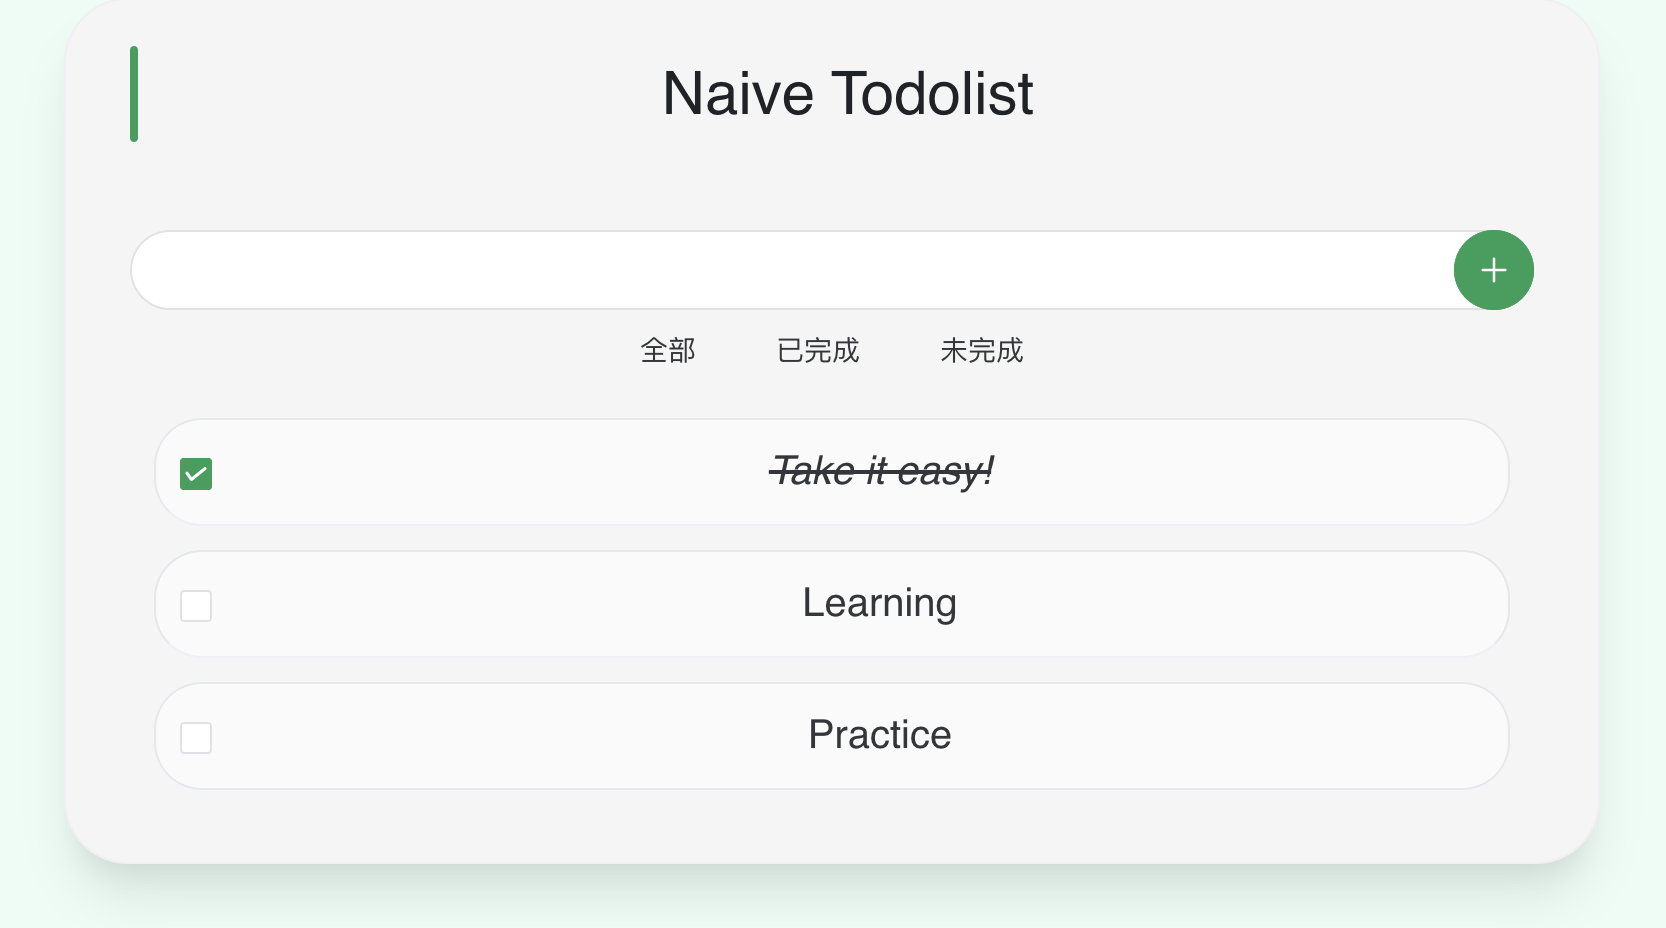
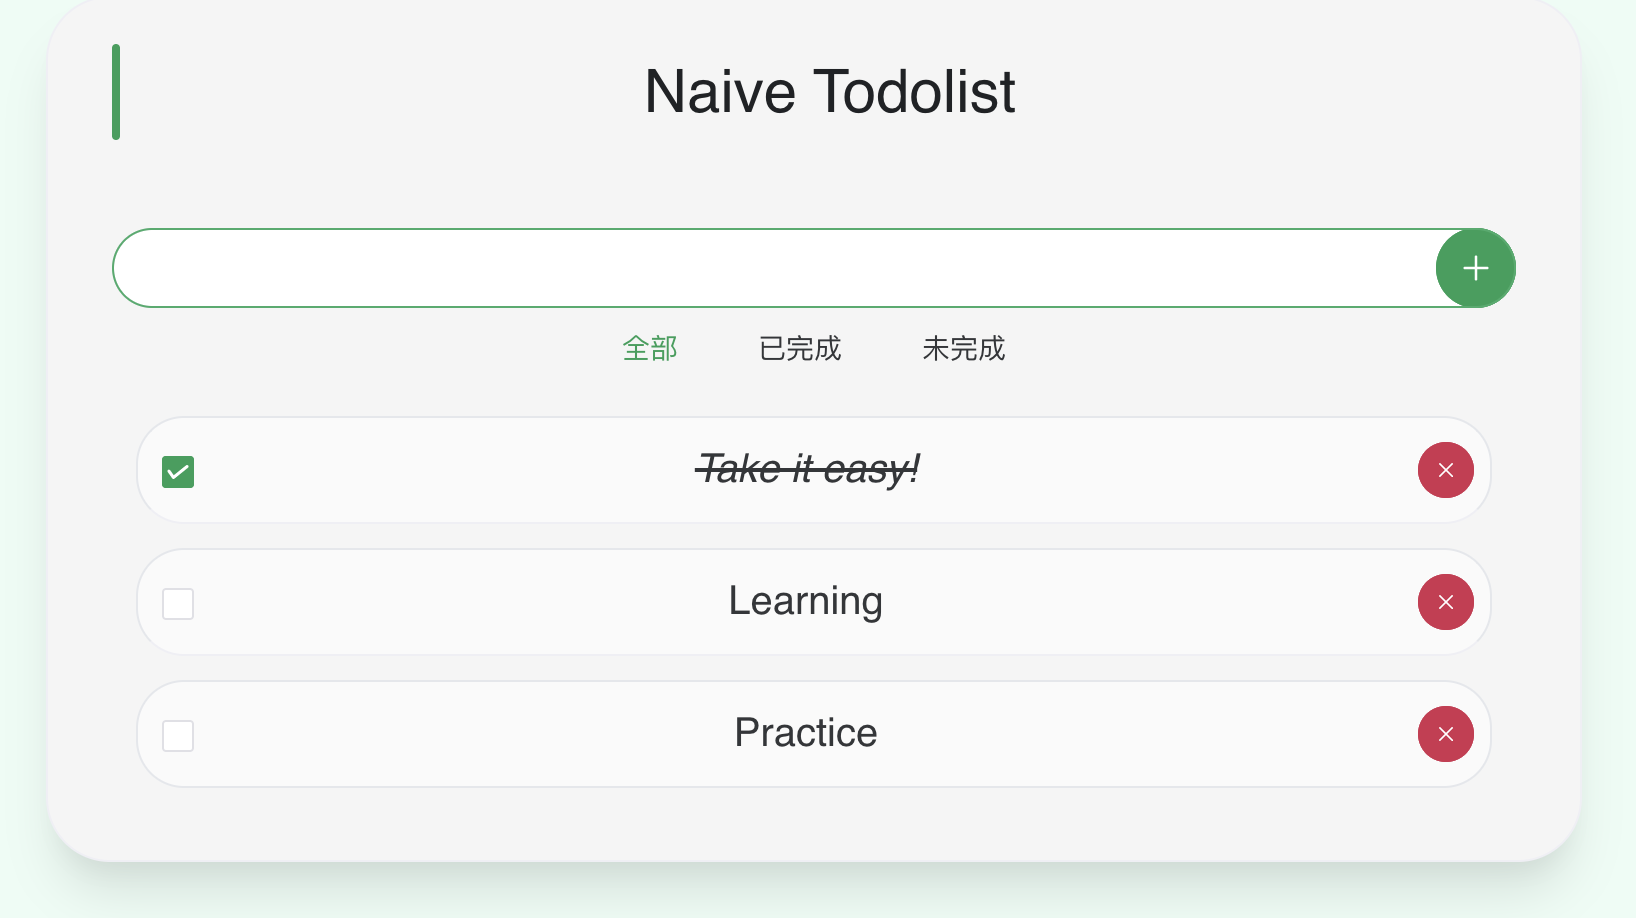
Add Delete Button

diff --git a/src/components/TodoList.vue b/src/components/TodoList.vue
@@ -1,26 +1,41 @@
 <template>
     <n-list>
         <n-list-item
-            v-for="todo in todoItem"
-            :key="todoItem.id"
-            class="bg-light-200 rounded-3xl border m-3 cursor-pointer"
-            @click="todo.completed = !todo.completed"
+            v-for="(todo,i) in todoItem"
+            :key="i"
+            class="bg-light-200 rounded-3xl border m-3"
         >
             <template #prefix>
-                <n-checkbox :checked="todo.completed" class="ml-3"></n-checkbox>
+                <n-checkbox v-model:checked="todo.completed" class="ml-3"></n-checkbox>
             </template>
             <n-text
-                class="text-xl"
+                class="text-xl cursor-pointer"
                 :italic="todo.completed"
                 :delete="todo.completed"
+                @click="todo.completed = !todo.completed"
             >{{ todo.content }}</n-text>
+            <template #suffix>
+                <n-button
+                    type="error"
+                    circle
+                    size="small"
+                    @click="emit('deleteTodo', todo.id)"
+                    class="mr-2"
+                >
+                    <n-icon>
+                        <close-outline />
+                    </n-icon>
+                </n-button>
+            </template>
         </n-list-item>
     </n-list>
 </template>
 
 <script setup lang="ts">
-import { ref } from "vue";
-import { NList, NListItem, NCheckbox, NText } from "naive-ui";
+import { NList, NListItem, NCheckbox, NText, NIcon, NButton } from "naive-ui";
+import { CloseOutline } from "@vicons/ionicons5";
 
 const props = defineProps(["todoItem"]);
+const emit = defineEmits(['deleteTodo']);
+
 </script>

diff --git a/src/views/Home.vue b/src/views/Home.vue
@@ -7,9 +7,9 @@
       <template #header>
         <n-h1 prefix="bar">Naive Todolist</n-h1>
       </template>
-      <TodoAdd @add-todo="addTodo" :tid="todos?.length"></TodoAdd>
+      <TodoAdd @add-todo="addTodo"></TodoAdd>
       <TodoFilter @change-filter="filter = $event"></TodoFilter>
-      <TodoList :todo-item="filteredTodos"></TodoList>
+      <TodoList @delete-todo="deleteTodo" :todo-item="filteredTodos"></TodoList>
     </n-card>
   </div>
 </template>
@@ -23,7 +23,7 @@ import TodoAdd from "../components/TodoAdd.vue"
 import useTodos from "../composables/useTodos";
 import useFilteredTodos from "../composables/useFilteredTodos";
 
-const { todos, addTodo } = useTodos();
+const { todos, addTodo, deleteTodo } = useTodos();
 const { filter, filteredTodos } = useFilteredTodos(todos);
 </script>
 

diff --git a/src/composables/useTodos.ts b/src/composables/useTodos.ts
@@ -1,17 +1,22 @@
 import { ref } from "vue";
 
 export default function useTodos() {
-    const todos = ref<object[]>([]);
+    const todos = ref<any[]>([]);
 
     // 添加 todo
-    const addTodo = (todo: any) => {
+    const addTodo = (todo: { content: string }) => {
         todo.content !== ""
             ? todos.value.push(todo)
             : console.log("输入不能为空");
+    };
+    //根据时间戳删除
+    const deleteTodo = (id:number) => {
+        todos.value.splice(todos.value.findIndex(todo => todo.id === id), 1)
     };
 
     return {
         todos,
         addTodo,
+        deleteTodo
     };
 }

diff --git a/src/components/TodoAdd.vue b/src/components/TodoAdd.vue
@@ -14,14 +14,14 @@ import { ref } from "vue";
 import { NInput, NIcon, NButton } from "naive-ui";
 import { AddOutline } from "@vicons/ionicons5";
 
-const props = defineProps(["tid"]);
+
 const emit = defineEmits(["add-todo"]);
 
 const todoContent = ref("");
 
 const emitAddTodo = () => {
     const todo = {
-        id: props.tid,
+        id: Date.now(),
         content: todoContent.value,
         completed: false,
     };

diff --git a/README.md b/README.md
@@ -36,3 +36,4 @@ See [Configuring Vite](https://vitejs.dev/config/).
 ## License
 
 [MIT license](https://opensource.org/licenses/MIT)
+
